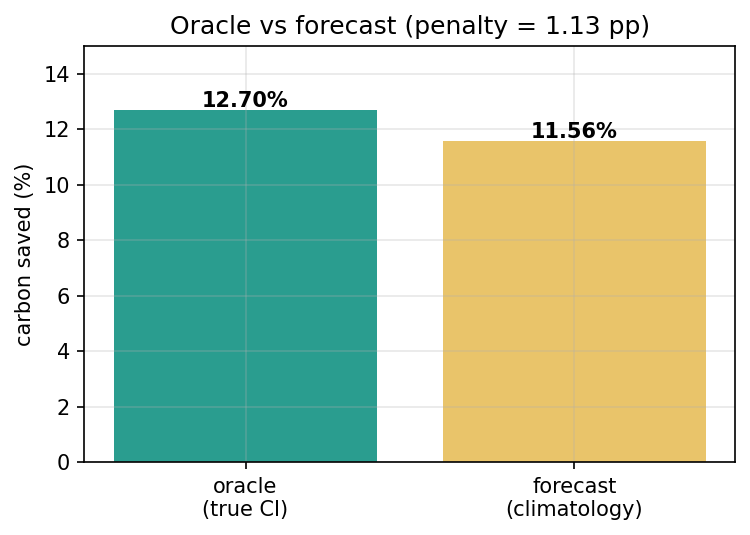
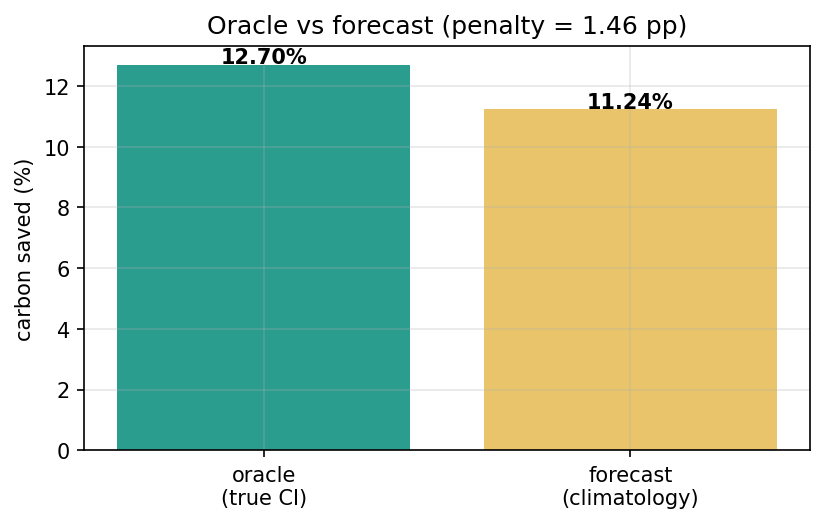
fix: forecast numbers, headline precision, captions, bootstrap CIs, sign convention

Changed region(s): [[0.0, 0.0306, 0.9813, 0.979], [0.9813, 0.0918, 1.0, 0.8566]]

diff --git a/scripts/avg_vs_marginal.py b/scripts/avg_vs_marginal.py
@@ -9,6 +9,12 @@ fixed cap (3 x median active load -- a physical power limit, so it is NOT
 re-derived per basis). Only the accounting basis changes. Nothing is tuned.
 
 Runtime ~4 min; the flex-6 average-basis MILP dominates at ~95 s.
+
+SIGN CONVENTION: delta_pp = Savings_average - Savings_marginal, matching the
+manuscript (Section 4.9) and notebook 04 cell `ma-average-marginal-run`. A
+POSITIVE delta therefore means the marginal basis LOWERS the attainable saving.
+This file previously used the opposite sign; only the sign changed, never a
+magnitude.
 """
 from __future__ import annotations
 
@@ -113,7 +119,7 @@ def main() -> None:
             rows.append(cell)
 
     sweep = pd.DataFrame(rows)
-    sweep["delta_pp"] = sweep["sav_marginal"] - sweep["sav_average"]
+    sweep["delta_pp"] = sweep["sav_average"] - sweep["sav_marginal"]
     emit("greedy_savings_sweep", sweep[
         ["cap", "flex_h", "sav_average", "sav_marginal", "delta_pp",
          "sav_marginal_of_avg_schedule"]].round(3))
@@ -134,7 +140,7 @@ def main() -> None:
             r[f"sav_{label}"] = U.savings_pct(b, o["total_gco2"])
             r[f"status_{label}"] = o.get("status")
             print(f"  MILP flex{f} {label}: {r[f'sav_{label}']:.2f}%  ({time.time() - t:.0f}s)")
-        r["delta_pp"] = r["sav_marginal"] - r["sav_average"]
+        r["delta_pp"] = r["sav_average"] - r["sav_marginal"]
         milp.append(r)
     emit(f"milp_savings_cap{WORKING_CAP_K:g}x", pd.DataFrame(milp).round(3))
 
@@ -155,7 +161,7 @@ def main() -> None:
             row[f"base_{label}"] = b
             row[f"avoided_{label}"] = b - tot
             row[f"sav_{label}"] = U.savings_pct(b, tot) if b else 0.0
-        row["delta_pp"] = row["sav_marginal"] - row["sav_average"]
+        row["delta_pp"] = row["sav_average"] - row["sav_marginal"]
         row["oil_hours"] = int(om[om.index.month == m].sum())
         mrows.append(row)
     mo = pd.DataFrame(mrows)
@@ -173,7 +179,7 @@ def main() -> None:
         r = {"season": lbl, "oil_hours": int(sub["oil_hours"].sum())}
         for label, _ in bases:
             r[f"sav_{label}"] = 100.0 * sub[f"avoided_{label}"].sum() / sub[f"base_{label}"].sum()
-        r["delta_pp"] = r["sav_marginal"] - r["sav_average"]
+        r["delta_pp"] = r["sav_average"] - r["sav_marginal"]
         srows.append(r)
     emit("seasonal_cap3x_flex6_energy_weighted", pd.DataFrame(srows).round(3))
 

diff --git a/carbon_sim.py b/carbon_sim.py
@@ -63,8 +63,9 @@ REDATE = pd.Timedelta(days=364)  # 52 weeks: preserves season and weekday
 # cooling hour on a flat profile and sits only 2.66x its own median (so it
 # binds), whereas the MA heat-pump buildings peak in single January hours that
 # are ~85-89% electric-resistance backup and sit 15.8-25.2x above their own
-# median, where a cap at the peak is effectively non-binding. Peak is therefore
-# retained only as a labeled non-binding endpoint of the sweep.
+# median, where a cap at the peak is very loose. Peak is retained as the loosest
+# swept cap -- NOT as a non-binding endpoint: even there the greedy-vs-optimal gap
+# is 0.46 pp and 506 jobs still fall back, so the cap is doing work.
 #
 # Reconciliation with the existing AL numbers: the old cap (observed peak,
 # 2.761 kW) is 2.66x the AL week's median active load, so the working cap sits in
@@ -156,12 +157,13 @@ def cap_grid(jobs: list[Job]) -> list[tuple[str, float]]:
     """Cap sweep for a job pool: k x median active load, plus the peak endpoint.
 
     Returns (label, cap_kw) pairs in sweep order. The final entry is the observed
-    peak, labeled as the non-binding endpoint: it is reported for continuity with
-    the earlier AL-week numbers, not as a working cap (see CAP_SWEEP_K).
+    peak. It is NOT non-binding: at the peak cap the greedy-vs-optimal gap is still
+    0.46 pp and 506 jobs fall back, so it is reported as the loosest swept cap, not
+    as an unconstrained endpoint (see CAP_SWEEP_K).
     """
     med = median_active_kw(jobs)
     grid = [(f"{k:g}x med", round(k * med, 6)) for k in CAP_SWEEP_K]
-    grid.append(("peak (non-binding)", round(max(j.power_kw for j in jobs), 6)))
+    grid.append(("peak", round(max(j.power_kw for j in jobs), 6)))
     return grid
 
 
